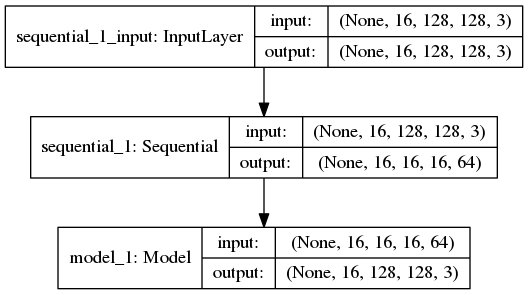
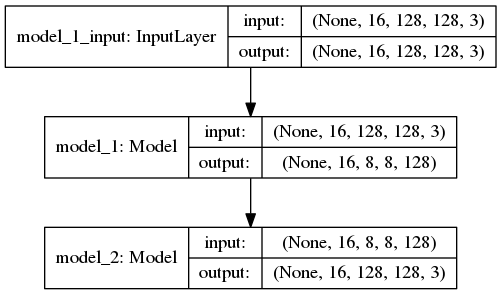
Separating out motion vector

diff --git a/code/autoencoder_model/scripts/vector_motion.py b/code/autoencoder_model/scripts/vector_motion.py
@@ -40,7 +40,7 @@ from keras.layers import Input
 from keras.models import Model
 from custom_layers import AttnLossLayer
 from experience_memory import ExperienceMemory
-from config_aa import *
+from config_vm import *
 from sys import stdout
 
 import tb_callback
@@ -52,38 +52,37 @@ import os
 
 
 # def encoder_model():
-#     model = Sequential()
-#
-#     # 10x128x128
-#     model.add(Conv3D(filters=128,
-#                      strides=(1, 4, 4),
-#                      kernel_size=(3, 11, 11),
-#                      padding='same',
-#                      input_shape=(int(VIDEO_LENGTH/2), 128, 128, 3)))
-#     model.add(TimeDistributed(BatchNormalization()))
-#     model.add(TimeDistributed(LeakyReLU(alpha=0.2)))
-#     model.add(TimeDistributed(Dropout(0.5)))
-#
-#     # 10x32x32
-#     model.add(Conv3D(filters=64,
-#                      strides=(1, 2, 2),
-#                      kernel_size=(3, 5, 5),
-#                      padding='same'))
-#     model.add(TimeDistributed(BatchNormalization()))
-#     model.add(TimeDistributed(LeakyReLU(alpha=0.2)))
-#     model.add(TimeDistributed(Dropout(0.5)))
-#
-#     # 10x16x16
-#     model.add(Conv3D(filters=64,
-#                      strides=(1, 1, 1),
-#                      kernel_size=(3, 3, 3),
-#                      padding='same'))
-#     model.add(TimeDistributed(BatchNormalization()))
-#     model.add(TimeDistributed(LeakyReLU(alpha=0.2)))
-#     model.add(TimeDistributed(Dropout(0.5)))
-#
-#     return model
-
+    # model = Sequential()
+    #
+    # # 10x128x128
+    # model.add(Conv3D(filters=128,
+    #                  strides=(1, 4, 4),
+    #                  kernel_size=(3, 11, 11),
+    #                  padding='same',
+    #                  input_shape=(int(VIDEO_LENGTH/2), 128, 128, 3)))
+    # model.add(TimeDistributed(BatchNormalization()))
+    # model.add(TimeDistributed(LeakyReLU(alpha=0.2)))
+    # model.add(TimeDistributed(Dropout(0.5)))
+    #
+    # # 10x32x32
+    # model.add(Conv3D(filters=64,
+    #                  strides=(1, 2, 2),
+    #                  kernel_size=(3, 5, 5),
+    #                  padding='same'))
+    # model.add(TimeDistributed(BatchNormalization()))
+    # model.add(TimeDistributed(LeakyReLU(alpha=0.2)))
+    # model.add(TimeDistributed(Dropout(0.5)))
+    #
+    # # 10x16x16
+    # model.add(Conv3D(filters=64,
+    #                  strides=(1, 1, 1),
+    #                  kernel_size=(3, 3, 3),
+    #                  padding='same'))
+    # model.add(TimeDistributed(BatchNormalization()))
+    # model.add(TimeDistributed(LeakyReLU(alpha=0.2)))
+    # model.add(TimeDistributed(Dropout(0.5)))
+    #
+    # return model
 
 def encoder_model():
     inputs = Input(shape=(int(VIDEO_LENGTH / 2), 128, 128, 3))
@@ -91,11 +90,11 @@ def encoder_model():
     # 10x128x128
     conv_1 = TimeDistributed(Conv2D(filters=64,
                             strides=(4, 4),
-                            kernel_size=(11, 11),
+                            kernel_size=(7, 7),
                             padding='same'))(inputs)
     x = TimeDistributed(BatchNormalization())(conv_1)
     x = TimeDistributed(LeakyReLU(alpha=0.2))(x)
-    x = TimeDistributed(Dropout(0.4))(x)
+    out_1 = TimeDistributed(Dropout(0.4))(x)
 
     # 10x32x32
     conv_2 = TimeDistributed(Conv2D(filters=128,
@@ -108,15 +107,23 @@ def encoder_model():
 
     # 10x16x16
     conv_3 = TimeDistributed(Conv2D(filters=128,
-                     strides=(1, 1),
+                     strides=(2, 2),
                      kernel_size=(3, 3),
                      padding='same'))(out_2)
     x = TimeDistributed(BatchNormalization())(conv_3)
     x = TimeDistributed(LeakyReLU(alpha=0.2))(x)
+    out_3 = TimeDistributed(Dropout(0.5))(x)
+
+    conv_4 = TimeDistributed(Conv2D(filters=128,
+                                    strides=(1, 1),
+                                    kernel_size=(3, 3),
+                                    padding='same'))(out_3)
+    x = TimeDistributed(BatchNormalization())(conv_4)
+    x = TimeDistributed(LeakyReLU(alpha=0.2))(x)
     in_rep = TimeDistributed(Dropout(0.5))(x)
 
-    # res_1 = concatenate([out_2, in_rep])
-    #
+    res_1 = concatenate([out_3, in_rep])
+    flat_1 = TimeDistributed(Flatten())(res_1)
     # clstm_1 = ConvLSTM2D(filters=1,
     #                      kernel_size=(3, 3),
     #                      strides=(1, 1),
@@ -124,14 +131,35 @@ def encoder_model():
     #                      return_sequences=False,
     #                      activation='relu',
     #                      recurrent_dropout=0.2)(res_1)
-    # tr_in = add([in_rep, clstm_1])
-    model = Model(inputs=inputs, outputs=in_rep)
+    lstm_1 = LSTM(units=8 * 8,
+                  return_sequences=True,
+                  recurrent_dropout=0.2)(flat_1)
+    lstm_2 = LSTM(units=8 * 8,
+                  return_sequences=False,
+                  recurrent_dropout=0.2)(lstm_1)
+
+    repeat = RepeatVector(int(VIDEO_LENGTH/2))(lstm_2)
+    flat_2 = TimeDistributed(Flatten())(in_rep)
+    tr_in = concatenate([repeat, flat_2])
+
+    dense = TimeDistributed(Dense(units=128*8*8,
+                                  activation='tanh'))(tr_in)
+    x = BatchNormalization()(dense)
+    tr_out = TimeDistributed(Dropout(0.5))(x)
+    reshape = TimeDistributed(Reshape(target_shape=(8, 8, 128)))(tr_out)
+
+
+
+
+
+
+    model = Model(inputs=inputs, outputs=reshape)
 
     return model
 
 
 def decoder_model():
-    inputs = Input(shape=(int(VIDEO_LENGTH/2), 16, 16, 128))
+    inputs = Input(shape=(int(VIDEO_LENGTH / 2), 8, 8, 128))
 
     # 10x16x16
     convlstm_1 = ConvLSTM2D(filters=128,
@@ -141,18 +169,8 @@ def decoder_model():
                             return_sequences=True,
                             recurrent_dropout=0.2)(inputs)
     x = TimeDistributed(BatchNormalization())(convlstm_1)
-    x = TimeDistributed(LeakyReLU(alpha=0.2))(x)
-    out_1 = TimeDistributed(Dropout(0.5))(x)
-
-    # flat_1 = TimeDistributed(Flatten())(out_1)
-    # aclstm_1 = GRU(units=16 * 16,
-    #                recurrent_dropout=0.2,
-    #                return_sequences=True)(flat_1)
-    # x = TimeDistributed(BatchNormalization())(aclstm_1)
-    # dense_1 = TimeDistributed(Dense(units=16 * 16, activation='softmax'))(x)
-    # a1_reshape = Reshape(target_shape=(int(VIDEO_LENGTH/2), 16, 16, 1))(dense_1)
-    # a1 = AttnLossLayer()(a1_reshape)
-    # dot_1 = multiply([out_1, a1])
+    h_1 = TimeDistributed(LeakyReLU(alpha=0.2))(x)
+    out_1 = UpSampling3D(size=(1, 2, 2))(h_1)
 
     convlstm_2 = ConvLSTM2D(filters=64,
                             kernel_size=(3, 3),
@@ -168,7 +186,7 @@ def decoder_model():
     res_1 = concatenate([out_2, skip_upsamp_1])
 
     # 10x32x32
-    convlstm_3 = ConvLSTM2D(filters=128,
+    convlstm_3 = ConvLSTM2D(filters=32,
                             kernel_size=(3, 3),
                             strides=(1, 1),
                             padding='same',
@@ -182,7 +200,7 @@ def decoder_model():
     res_2 = concatenate([out_3, skip_upsamp_2])
 
     # 10x64x64
-    convlstm_4 = ConvLSTM2D(filters=32,
+    convlstm_4 = ConvLSTM2D(filters=16,
                             kernel_size=(3, 3),
                             strides=(1, 1),
                             padding='same',
@@ -382,7 +400,7 @@ def train(BATCH_SIZE, ENC_WEIGHTS, DEC_WEIGHTS):
     # mask_gen_1 = Sequential()
     # mask_gen_1.add(encoder)
     # mask_gen_1.add(intermediate_decoder)
-    # mask_gen_1.compile(loss='mean_squared_error', optimizer=OPTIM_A)
+    # mask_gen_1.compile(loss='mean_absolute_error', optimizer=OPTIM_A)
 
     run_utilities(encoder, decoder, autoencoder, ENC_WEIGHTS, DEC_WEIGHTS)
 
